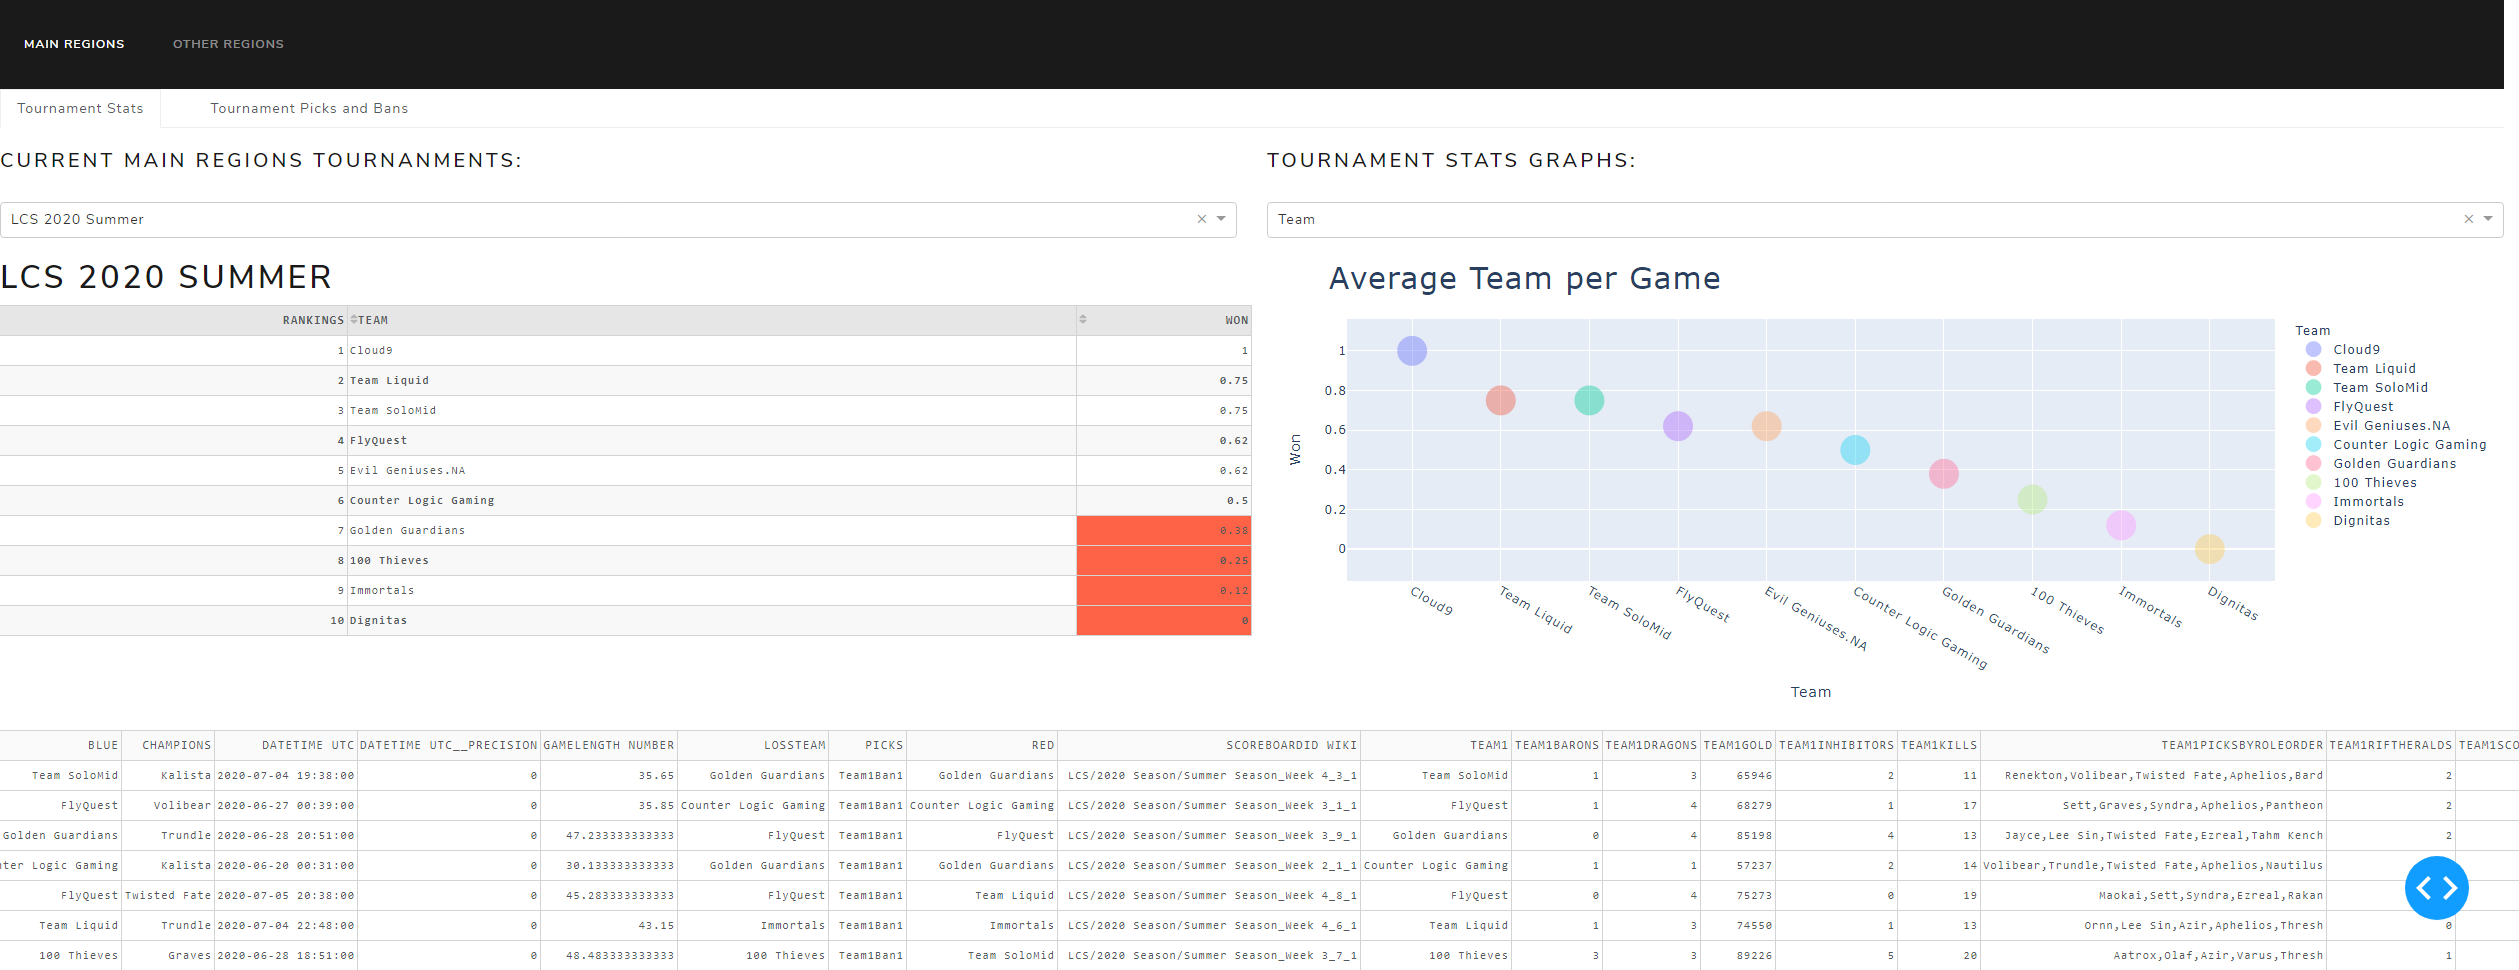
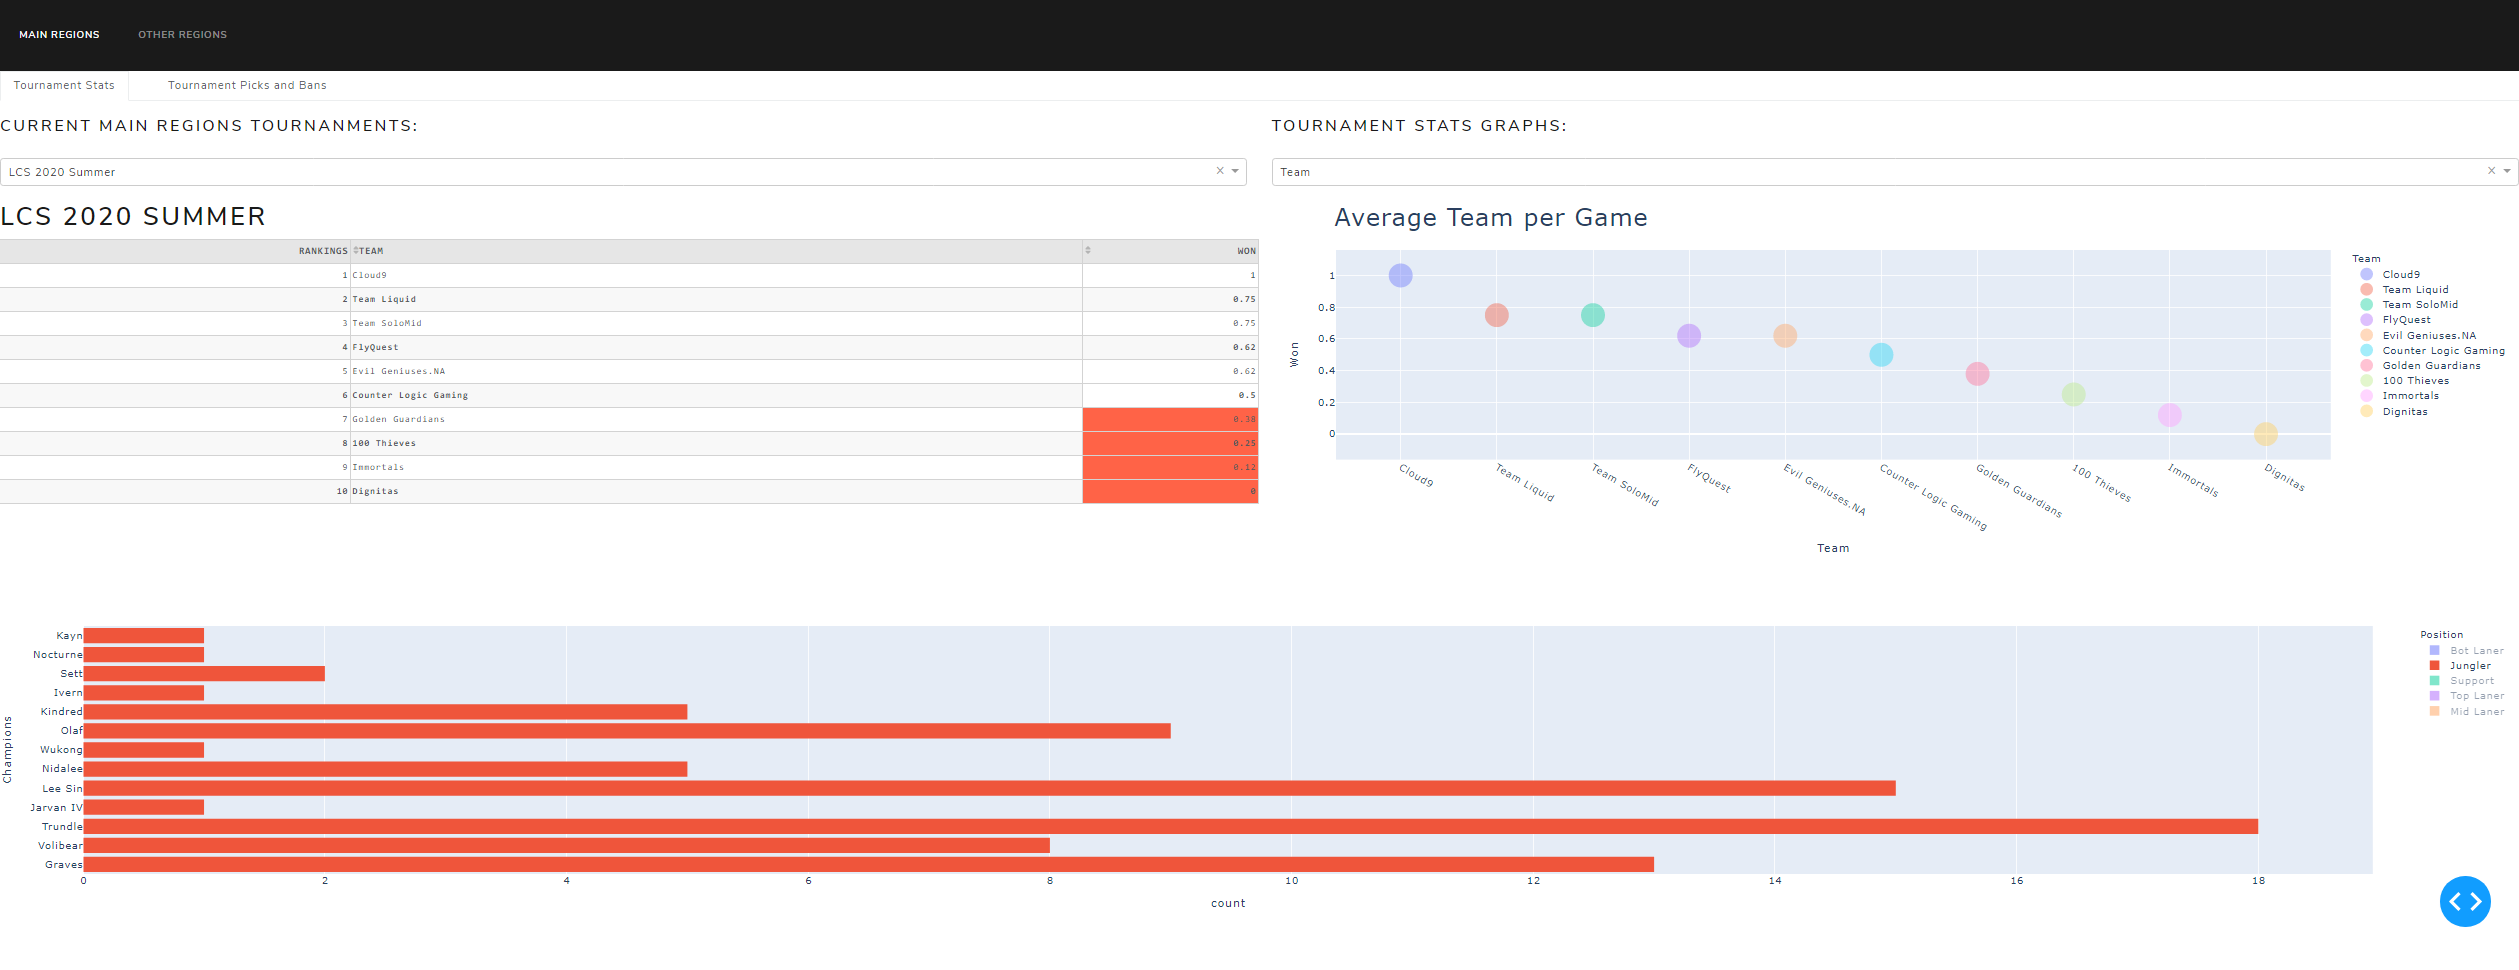
Updated to reflect project

diff --git a/README.md b/README.md
@@ -20,14 +20,14 @@ python index.py
 Here's an image of how it looks like right now  ![image](/docs/Prototype.png "Prototype") 
 
 Right now the main page shows the four main regions and the following information
-1. Standings for the torunament with the win rate
+1. Standings for the tournament with the win rate
 2. Graph with usual information regarding multiple things like Gold, Gold Difference, Dragons, Barons, Kills, ect. 
-3. Table of the picks and bans for the tournament
+3. Histogram of the picks of this tournament
 
 I want to make the following changes
++ Align the histograms of bans and picks together and add title and caption 
 + Change name for columns and graph axis
 + Add a rating system for the teams
-+ Make the picks and bans table into a graph 
 + Do the same for the other regions and international events/ playoffs
 
 
